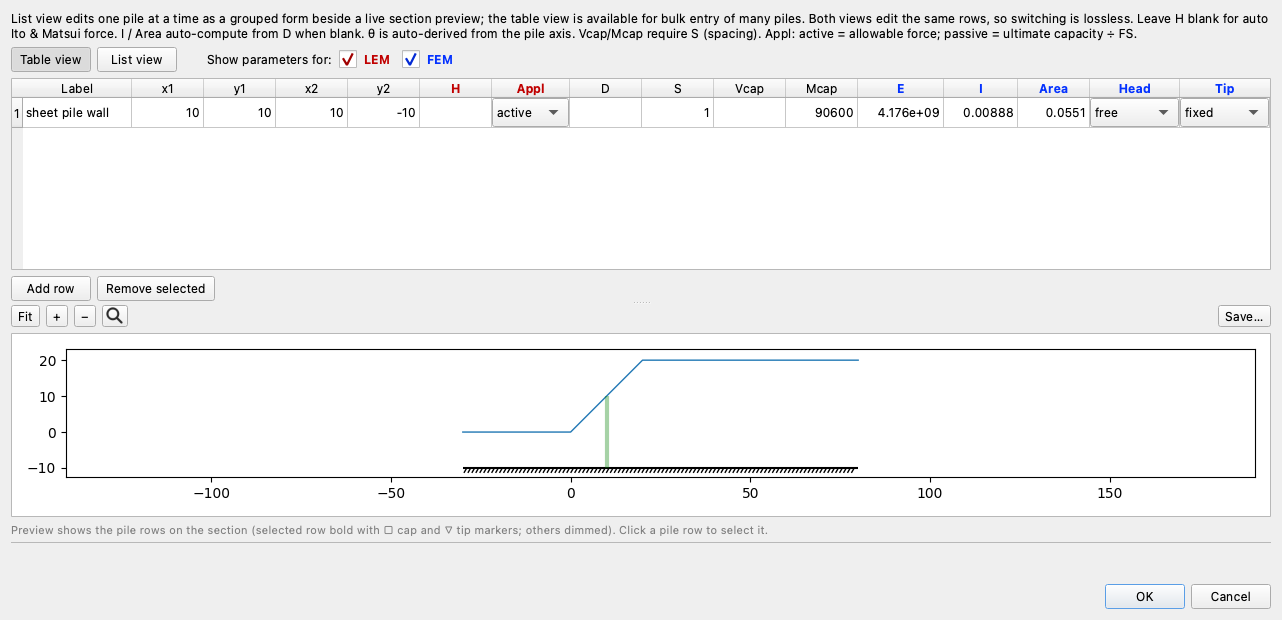
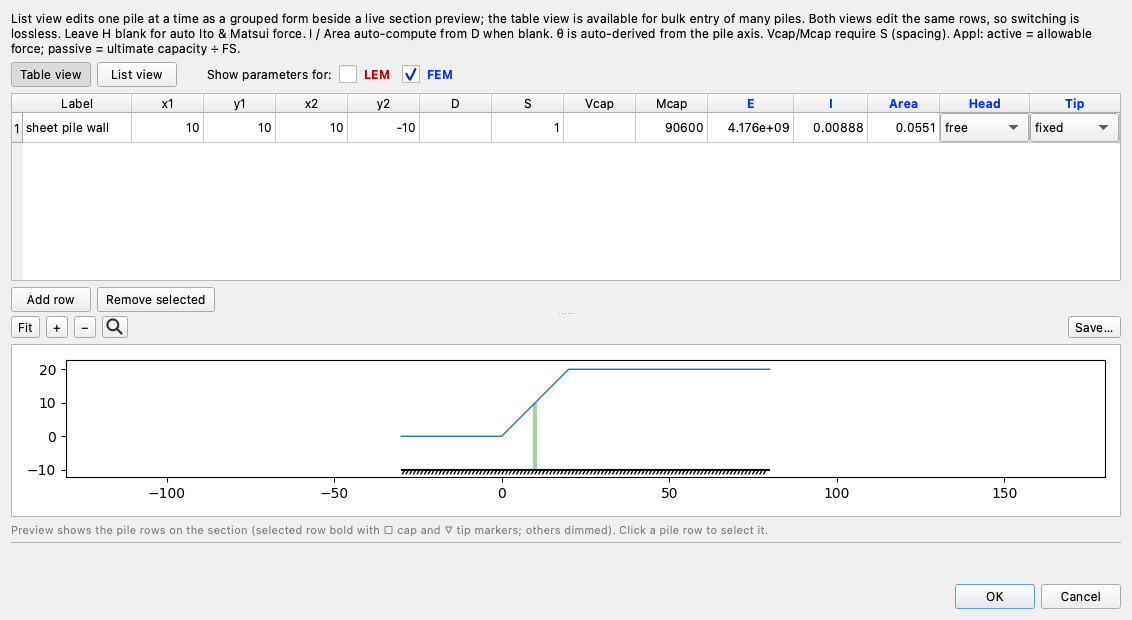
tutorial(fem03): the wall row shows the finite element cells only
The continuous wall section runs the strength reduction and nothing else, so the capture drops the limit equilibrium band and the text no longer explains H and Appl.

Claude-Session: https://claude.ai/code/session_01XjjT2aBxw8gY7EFdpoUcpj

diff --git a/tools/capture_tutorial_screenshots.py b/tools/capture_tutorial_screenshots.py
@@ -2578,18 +2578,14 @@ def fem03_wall_row():
     endpoints, its axial and bending section constants entered directly, spacing
     1, a moment capacity, and D and Vcap left empty.
 
-    Both usage bands are shown rather than the FEM band alone, because the row's
-    subject is which cells a continuous member fills and which it leaves blank,
-    and those cells sit in both bands.  The table reaches Tip, which is the cell
-    the page's second run changes.
+    FEM band only: this section runs the strength reduction and nothing else, so
+    the limit equilibrium cells (H, Appl) are not shown.  D, S, Vcap and Mcap
+    apply to both engines and stay.  The table reaches Tip, which is the cell the
+    page's second run changes.
     """
     from studio.editors import PilesEditor
 
-    dlg = PilesEditor().build(_load(FEM03_WALL_DONE), None)
-    # Both bands ticked, explicitly: which band is shown is a session setting, so
-    # a shot that does not set it photographs whatever the last dialog left.
-    for _tag, cb in (getattr(dlg, "_toggles", None) or {}).items():
-        cb.setChecked(True)
+    dlg = _fem_only(PilesEditor().build(_load(FEM03_WALL_DONE), None))
     return _grab(_line_table(dlg, through="tip_fixity"),
                  "fem03_studio_wall_row.png")
 

diff --git a/docs/tutorials/fem03_piles.md b/docs/tutorials/fem03_piles.md
@@ -523,24 +523,19 @@ use.
 
 Enter the geometry — `x1` 10, `y1` 10, `x2` 10, `y2` −10 — then `E`
 `4176000000`, which the cell redisplays as `4.176e+09`, `I` `0.00888` and `Area`
-`0.0551` from the table above, `Mcap` `90600`, and `S` `1`. Leave `H`, `D` and
+`0.0551` from the table above, `Mcap` `90600`, and `S` `1`. Leave `D` and
 `Vcap` empty.
 
 Each of those follows from the member being continuous. A sheet pile wall has no
 out-of-plane gap, so its section constants already are per foot of wall, and a
-spacing of 1 passes them into the beam elements unchanged instead of smearing one
-member's stiffness over a spacing. `D` is blank because there is no circular
-shaft to derive a section from — `I` and `Area` are given directly, which is the
-other way the engine accepts a section — and because there is no gap for soil to
-squeeze through, so no arching theory applies. `Vcap` is blank because this run
-checks the wall in bending only. `H` is blank because a strength reduction run
-never uses a stated pile force.
+spacing of 1 passes them into the beam elements unchanged. `D` is blank because
+there is no circular shaft to derive a section from; `I` and `Area` are given
+directly instead. `Vcap` is blank because this run checks the wall in bending
+only.
 
-A new row also opens with **Appl** on `active` and both **Head** and **Tip** on
-`free`. `Appl` is inert here: it is a limit equilibrium input, and a strength
-reduction run never reads it. `Head` `free` is a driven sheet pile with no
-capping beam. Set `Tip` to `fixed`: a sheet pile is driven into the base, not
-stood on it, and the first half measured what that restraint does.
+A new row opens with both **Head** and **Tip** on `free`. `Head` `free` is a
+driven sheet pile with no capping beam. Set `Tip` to `fixed`: a sheet pile is
+driven into the base, not stood on it.
 
 Click **OK**.
 
